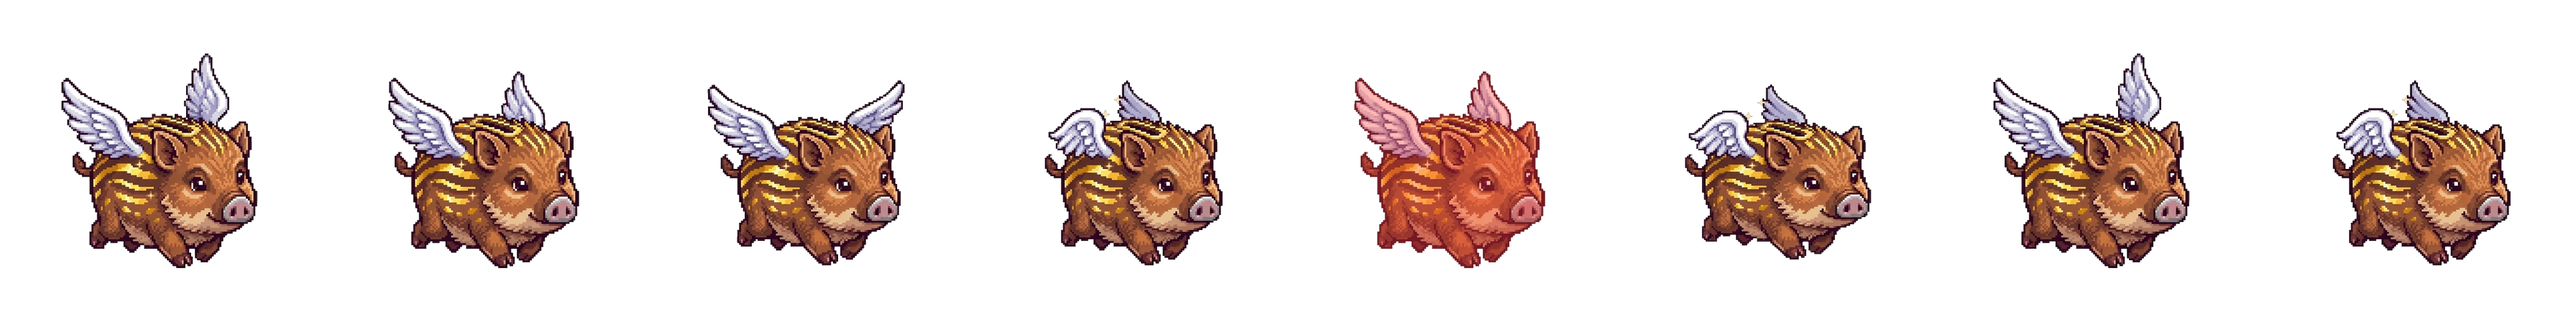
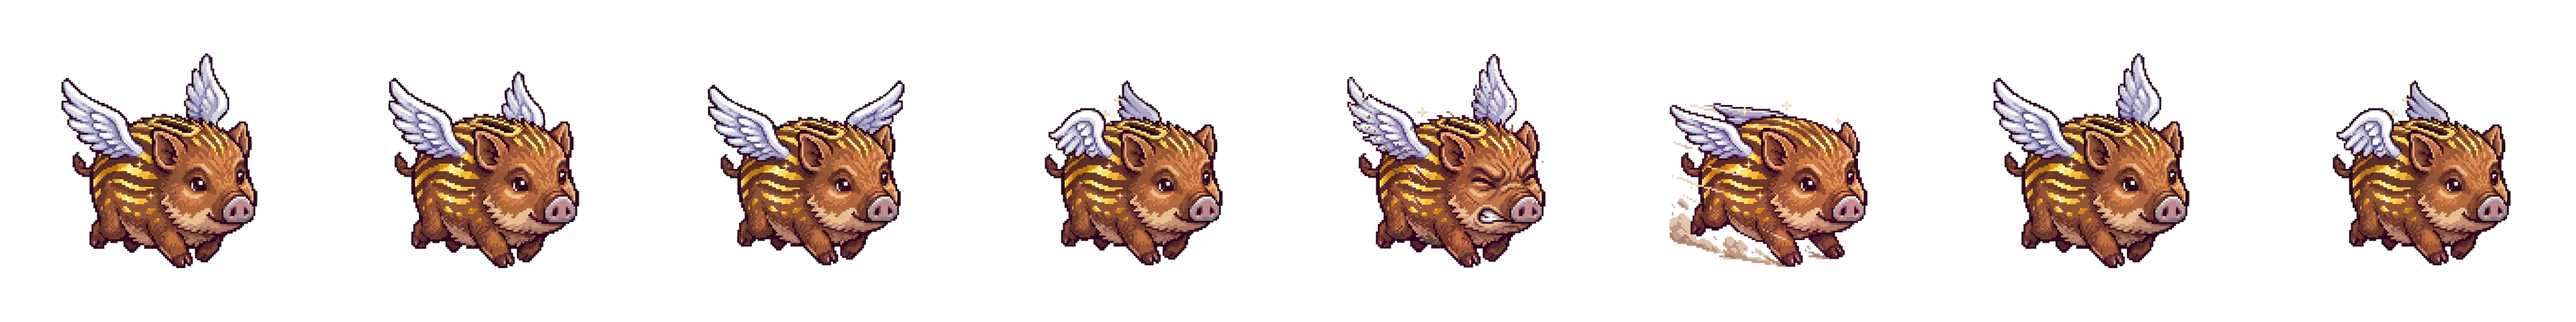
When Pigs Fly: the piglet's drawn hurt and dash, synced from app 22ff17f

Changed region(s): [[0.5, 0.1875, 0.75, 0.8438]]

diff --git a/arcade/v2/app/tool/art/split_frames.py b/arcade/v2/app/tool/art/split_frames.py
@@ -27,10 +27,12 @@ the second's columns. This:
   3. makes the white background transparent by flood-filling from the
      frame's edges through near-white (so white inside the art, such as the
      piglet's wings, is untouched), then trims the light JPEG fringe off the
-     outline. With --holes, white the fill cannot reach goes too, the gaps
-     inside a curled tail or a tusk's curve, down to a few dozen pixels
-     (smaller is a highlight). Only for art with no white of its own; the
-     piglet's white feathers hold pockets of the same colour and size;
+     outline. White the fill cannot reach goes too where it is edged with
+     warm colour (sky between a belly and its dust), and with --holes all
+     of it, the gaps inside a curled tail or a tusk's curve, down to a few
+     dozen pixels (smaller is a highlight). --holes is only for art with no
+     white of its own; the piglet's white feathers hold pockets of the same
+     colour and size;
   4. turns every frame to face the way the first one does: the razorback's
      second row faces the other way. Each frame is tried both ways round
      and kept the way its head matches the first frame's better;
@@ -195,9 +197,18 @@ def cut(img, frame, pad=12):
     return out
 
 
-def knock_out(a, holes=False, min_hole=30):
-    """RGBA with the background flood-filled out from the edges (and, with
-    [holes], every enclosed patch of it at least [min_hole] pixels too)."""
+def knock_out(a, holes=False, min_hole=30, warm_share=0.005):
+    """RGBA with the background flood-filled out from the edges, and the
+    enclosed patches of it at least [min_hole] pixels that are background
+    too: with [holes] all of them; without, the big ones edged with warm
+    colour (fur, dust), which are sky showing through. The piglet's dash
+    has a gap between its belly and the dust it kicks up, about 2% of the
+    boar, half its rim warm; every pocket of white in its feathers is edged
+    in lavender (at most 8% of the rim warm). Size tells it from a
+    highlight against fur, such as the one on the snout (0.04%, which the
+    first version of this rule punched out): the gap must be at least
+    [warm_share] of the boar, a share rather than pixels because a
+    close-up is knocked out at full size."""
     h, w, _ = a.shape
     ai = a.astype(int)
     bgish = (ai.min(axis=2) > 226) & ((ai.max(axis=2) - ai.min(axis=2)) < 24)
@@ -220,10 +231,24 @@ def knock_out(a, holes=False, min_hole=30):
             if 0 <= ny < h and 0 <= nx < w and bgish[ny, nx] and not bg[ny, nx]:
                 bg[ny, nx] = True
                 q.append((ny, nx))
-    if holes:
-        lab, sizes = components(bgish & ~bg)
-        big = [i for i, s in enumerate(sizes) if i and s >= min_hole]
-        bg |= np.isin(lab, big)
+    lab, sizes = components(bgish & ~bg)
+    opaque = ~bg
+    boar = opaque.sum()
+    for i, n in enumerate(sizes):
+        if not i or n < min_hole or (not holes and n < warm_share * boar):
+            continue
+        m = lab == i
+        if not holes:
+            rim = np.zeros_like(m)
+            rim[1:] |= m[:-1]
+            rim[:-1] |= m[1:]
+            rim[:, 1:] |= m[:, :-1]
+            rim[:, :-1] |= m[:, 1:]
+            rim &= ~m & opaque
+            px = ai[rim]
+            if not len(px) or ((px[:, 0] - px[:, 2]) > 20).mean() < 0.25:
+                continue
+        bg |= m
     # The JPEG fringe: light pixels touching the background, twice over.
     for _ in range(2):
         edge = np.zeros_like(bg)
@@ -288,7 +313,10 @@ def register_to(ref, cells, names, prefix):
     match the head: each is tried at a few sizes and both ways round, the
     best refined, and then all are drawn at the median of their best sizes,
     since a sheet is drawn at one size (alone, one frame of a test sheet
-    shrunk to 85% came out 2% off)."""
+    shrunk to 85% came out 2% off). The sizes tried are round a first
+    estimate from how much art there is, so a pose drawn much bigger (the
+    piglet's hurt came as a close-up four times the wingbeat's size) is
+    found too."""
     ch, cw = ref.shape[:2]
     rx, ry = lower_centroid(ref)
     reach = max(ch, cw) // 10
@@ -306,16 +334,18 @@ def register_to(ref, cells, names, prefix):
         cost, hx, hy = head_match(ref, place(c, gx, gy), reach)
         return cost, gx + hx, gy + hy
 
+    area = (ref[:, :, 3] > 0).sum()
+    guess = float(np.median([np.sqrt(area / (c[:, :, 3] > 0).sum()) for c in cells]))
     best = []
     for cell in cells:
         tries = []
         for flip in (False, True):
             base = cell[:, ::-1].copy() if flip else cell
-            for s in (0.8, 0.9, 1.0, 1.1, 1.2):
+            for s in (guess * k for k in (0.8, 0.9, 1.0, 1.1, 1.2)):
                 tries.append((*fit(scaled(base, s)), flip, s))
         _, _, _, flip, s0 = min(tries, key=lambda t: t[0])
         base = cell[:, ::-1].copy() if flip else cell
-        for s in (s0 - 0.05, s0 - 0.025, s0 + 0.025, s0 + 0.05):
+        for s in (s0 * k for k in (0.95, 0.975, 1.025, 1.05)):
             tries.append((*fit(scaled(base, s)), flip, s))
         best.append(min(tries, key=lambda t: t[0])[3:])
     s = round(float(np.median([b[1] for b in best])), 4)

diff --git a/arcade/v2/app/tool/art/import_boars.py b/arcade/v2/app/tool/art/import_boars.py
@@ -256,15 +256,23 @@ def to_frames(imgs, extra=()):
     box = (min(b[0] for b in boxes), min(b[1] for b in boxes), max(b[2] for b in boxes), max(b[3] for b in boxes))
     w, h = box[2] - box[0], box[3] - box[1]
     side = int(max(w, h) * PAD)
-    at = ((side - w) // 2 - box[0], (side - h) // 2 - box[1])
+    # The square each drawing is cut to, in its own coordinates.
+    sq_box = (box[0] - (side - w) // 2, box[1] - (side - h) // 2)
+    sq_box = (*sq_box, sq_box[0] + side, sq_box[1] + side)
     out = []
     for im in [*imgs, *extra]:
-        sq = Image.new("RGBA", (side, side), (0, 0, 0, 0))
-        sq.paste(im, at, im)
-        cut = int((np.array(im.getchannel("A")) > 0).sum() - (np.array(sq.getchannel("A")) > 0).sum())
+        # Cropped straight to the square, and not pasted with its own alpha
+        # as the mask: that squares a partial alpha, and thinned the soft
+        # edges of a pose scaled to fit. The colour under clear pixels is
+        # cleared, as the paste left it, so the sheets from solid drawings
+        # come out as before.
+        a = np.array(im.crop(sq_box))
+        a[a[:, :, 3] == 0] = 0
+        ys, xs = np.nonzero(np.array(im.getchannel("A")) > 0)
+        cut = int(((xs < sq_box[0]) | (xs >= sq_box[2]) | (ys < sq_box[1]) | (ys >= sq_box[3])).sum())
         if cut > 0:
             print(f"  warning: {cut} px of a drawing fall outside its frame and are cut off")
-        out.append(sq.resize((FRAME, FRAME), Image.LANCZOS))
+        out.append(Image.fromarray(a, "RGBA").resize((FRAME, FRAME), Image.LANCZOS))
     return out
 
 

diff --git a/arcade/TEN-GAMES.md b/arcade/TEN-GAMES.md
@@ -617,6 +617,70 @@ The juvenile's body matched the old art to the pixel, 173px wide in the
 standing frame, so its BoarSpec is unchanged. Verified on the Pixel: a DEV
 flight as the juvenile cycles all four drawings with the head steady.
 
+### The piglet's drawn hurt — 2026-09-28
+
+The first drawn pose is the piglet's hurt: a flinch with a squint, gritted
+teeth, and dust flying. It came as a single close-up, about four times the
+wingbeat's size, with no label. It is kept as
+`tool/art/source/boar_piglet_hurt_drawn.jpg` and went in with:
+
+    python tool/art/split_frames.py tool/art/source/boar_piglet_hurt_drawn.jpg tool/art/source/boar_piglet \
+        --frames 1 --ref tool/art/source/boar_piglet_cycle_1.png --names hurt
+
+It needed two fixes:
+
+- **Scale.** The size search covered 0.8× to 1.2× only. It now searches
+  round a first estimate from how much art there is (the square root of the
+  opaque-area ratio), so any size is found. This one came out at 0.245. An
+  onion skin over the flying frames shows the snout, body, hooves and tail
+  in place.
+- **A false "cut off" warning, and thinned edges.** The importer pasted each
+  drawing with its own alpha as the mask. That squares a partial alpha, so
+  the soft edges of a pose scaled to fit came out thinner, and the cut-off
+  check counted them as lost. Drawings are now cropped straight into the
+  frame square, and cut-off pixels are counted by position. The sheets from
+  solid drawings are byte-identical to before.
+
+The dust specks around the flinch are detached, so the importer drops them
+like sparkles. The drawn hurt has no red tint; the strike's red screen wash
+still shows. Verified on the Pixel: the piglet flown into a pillar shows the
+flinch for the hurt window, in place, with no jump from the flying frames.
+Still made from the wingbeat for the piglet: dash, land and stand.
+
+### The piglet's drawn dash — 2026-09-28
+
+The second drawn pose is the piglet's dash: wings swept back, speed streaks,
+and a dust wake trailing from the hooves. It came as a close-up like the
+hurt one, is kept as `boar_piglet_dash_drawn.jpg`, and went in the same way
+(`--names dash`) at scale 0.244. It lines up with the flying frames on the
+snout, eye and ear.
+
+**One fix.** Between the belly and the dust wake is a gap of white, the sky
+through the dust. The dust closes it off, so the flood fill left it as a
+solid white patch. `--holes` would clear it, but would also punch out the
+pockets of white in the piglet's feathers. Instead, `knock_out` now clears
+by default any enclosed white that is:
+- **edged with warm colour** (fur, dust): at least a quarter of its rim.
+  Every feather pocket is edged in lavender, with at most 8% of its rim
+  warm. The dash gap's rim is about half warm.
+- **big**: at least 0.5% of the boar. The gap is about 2%. The first
+  version had no size test and punched out the white highlight on top of
+  the snout (0.04%), which is edged by fur too.
+
+The size is a share rather than pixels, because a close-up is knocked out at
+full size. With the rule in place, the piglet's wingbeat and hurt re-split
+byte-identical. The juvenile and razorback use `--holes`, which this doesn't
+change.
+
+The dust wake is kept, as the owner drew it. Still made from the wingbeat
+for the piglet: land and stand.
+
+**Verified on the Pixel:** the piglet dashed and the game was paused within
+the dash window. It shows the drawn pose with its dust wake, the sky through
+the gap and no white patch, alongside the game's own speed streaks. (The
+first install attempt failed because the Pixel had dropped off adb; the
+check was redone once it was plugged back in.)
+
 ### Pose sheets: the importer is ready — 2026-09-28
 
 The four frames after the wingbeat (hurt, dash, land, stand) are still made
